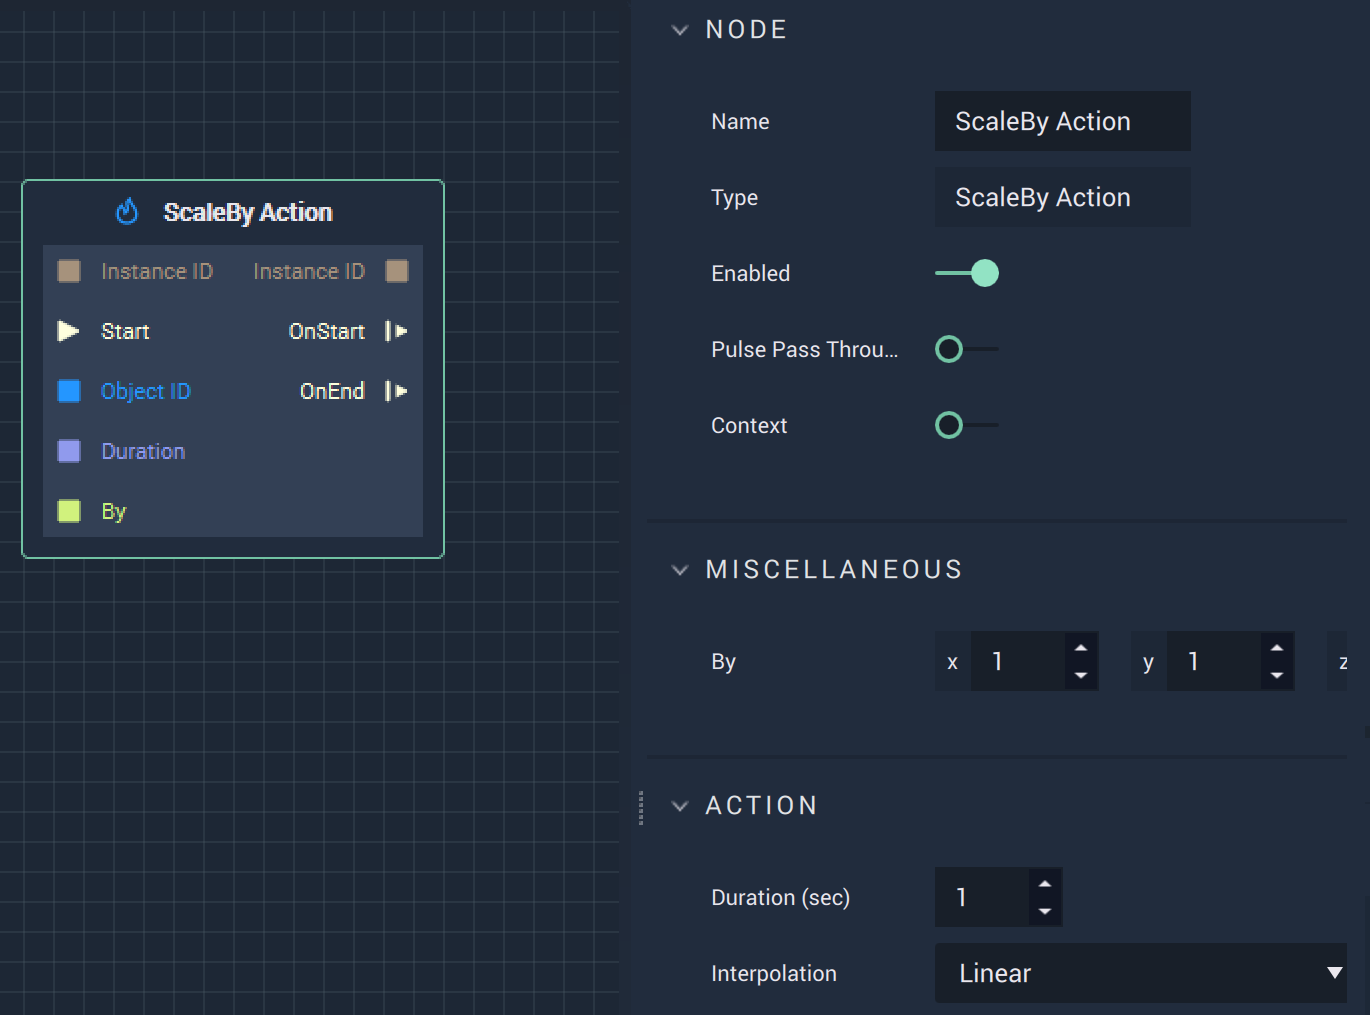
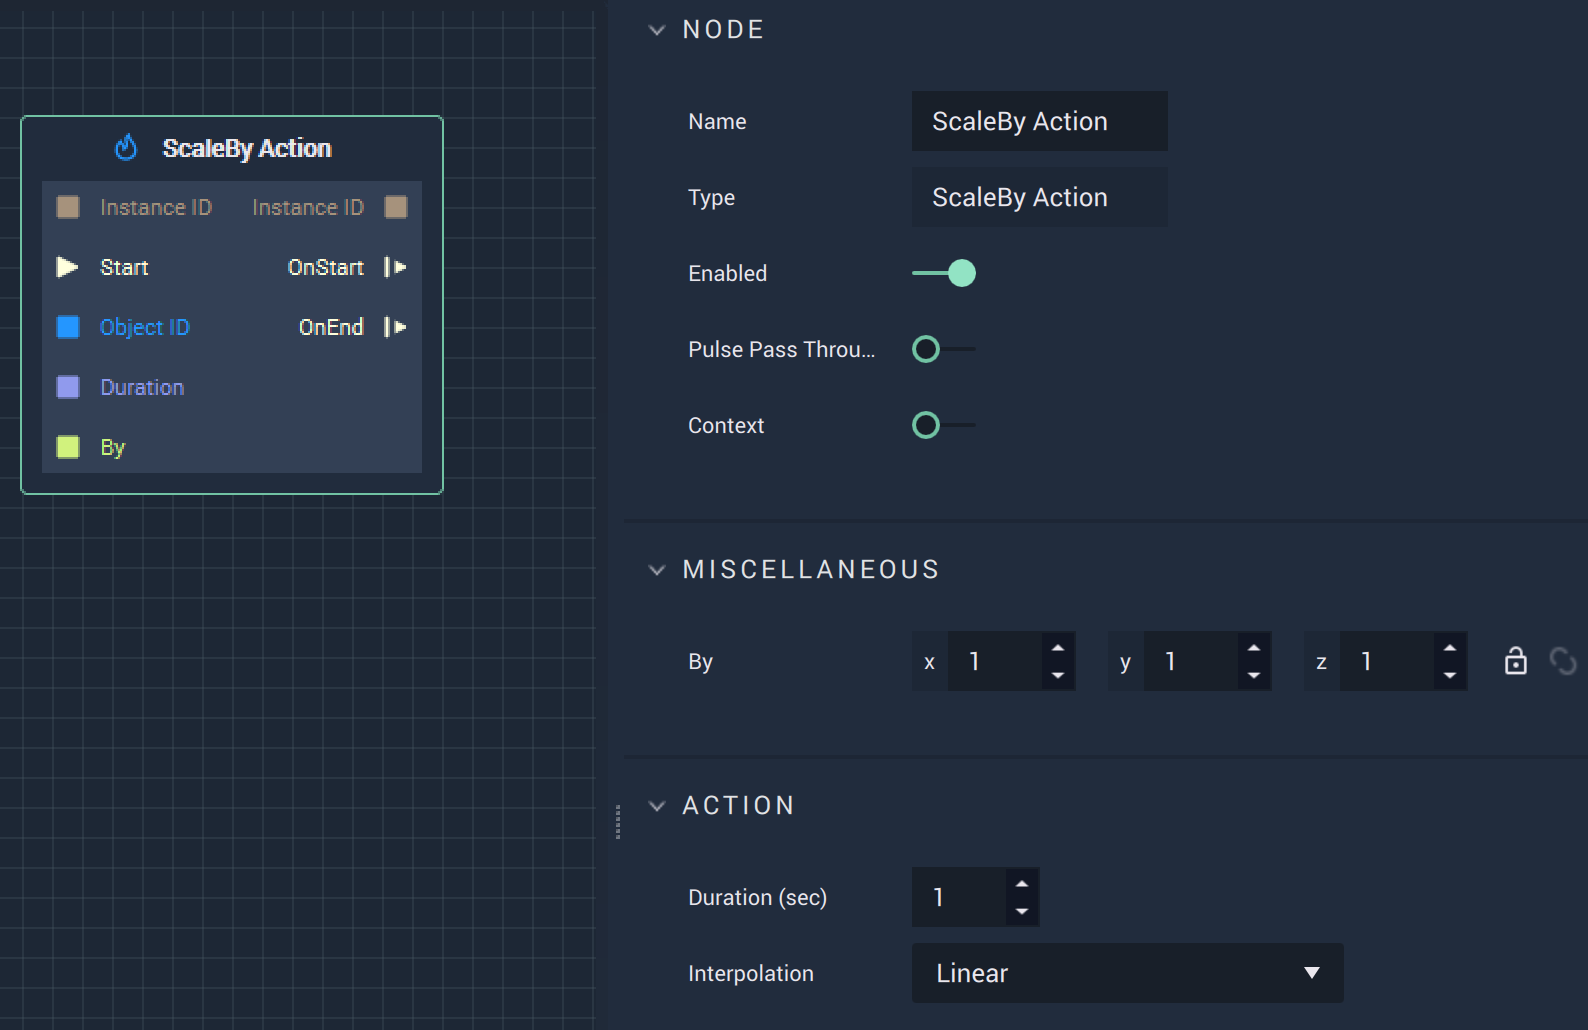
move and scale nodes + png updates

diff --git a/toolbox/actions/scalebyaction.md b/toolbox/actions/scalebyaction.md
@@ -2,33 +2,40 @@
 
 ![The ScaleBy Action Node.](../../.gitbook/assets/scalebyaction.png)
 
-**ScaleBy Action** moves an **Animation** by the numbers specified in `By` for the `Duration` (in seconds), in either **Attributes** or **Inputs**.
+The **ScaleBy Action Node** scales an **Animation** by the numbers specified in `By` for the `Duration` (in seconds), in either **Attributes** or **Inputs**.
 
 # Attributes
 
 |Attribute|Type|Description|
 |---|---|---|
-|`Offset`|**Vector3**|???.|
+|`By`|**Vector3**| The amount to be scaled by.|
 |`Duration`|**Float**|The total time of the **Action**.|
+|`Interpolation`|**Dropdown**|The `Interpolation` type. Can be Linear, Sine Ease In, Sine Ease Out, or Sine Ease In Out.|
 
 # Inputs
 
 |Input|Type|Description|
 |---|---|---|
-|*Pulse Input* (►)|**Pulse**|A standard **Input Pulse**, to trigger the execution of the **Node**.|
-|`Instance ID`| **InstanceID** | The assigned **Instance** of an **Animation**??.|
+|`Instance ID`| **InstanceID** | The assigned **Instance** of an **Object**.|
 |(►) `Start`|**Pulse**|A standard **Input Pulse**, to trigger the execution of the **Node**.|
 |`Object ID`|**ObjectID**|The ID of the target **Object**.|
 |`Duration`|**Float**|The total time (in seconds).|
-|`By`|**Vector3**|The amount to scale the **Animation** by within 3D space.|
+|`By`|**Vector3**| The amount to be scaled by.|
 
 # Outputs
 
 |Output|Type|Description|
 |---|---|---|
-|*Pulse Output* (►)|**Pulse**|A standard **Output Pulse**, to move onto the next **Node** along the **Logic Branch**, once this **Node** has finished its execution.|
+|`Instance ID`|**InstanceID**|The assigned **Instance** of an **Object**.|
+|`OnStart` (►)|**Pulse**|Flows to additional actions following **ScaleBy Action** if the **Action** is executed.|
+|`OnEnd` (►)|**Pulse**|Flows to additional actions following **ScaleBy Action** if the **Action** stops.|
+
 
 # See Also
 
+* [**ScaleTo Action**](scaletoaction.md)
+
 # External Links
+
+* [Scaling (geometry)](https://en.wikipedia.org/wiki/Scaling_%28geometry%29) on Wikipedia.
 

diff --git a/toolbox/actions/scaletoaction.md b/toolbox/actions/scaletoaction.md
@@ -1,27 +1,39 @@
 # Overview
 
-![The Scaleto Node.](../../.gitbook/assets/scaletoaction.png)
+![The ScaleTo Node.](../../.gitbook/assets/scaletoaction.png)
 
-**Scaleto** .
+The **ScaleTo Node** scales an **Animation** to the *xyz* coordinates specified in `To` for the `Duration` (in seconds), in either **Attributes** or **Inputs**.
+.
 
 # Attributes
 
 |Attribute|Type|Description|
 |---|---|---|
+|`To`|**Vector3**| The *xyz* coordinates to scale to.|
+|`Duration`|**Float**|The total time of the **Action**.|
+|`Interpolation`|**Dropdown**|The `Interpolation` type. Can be Linear, Sine Ease In, Sine Ease Out, or Sine Ease In Out.|
 
 # Inputs
 
 |Input|Type|Description|
 |---|---|---|
-|*Pulse Input* (►)|**Pulse**|A standard **Input Pulse**, to trigger the execution of the **Node**.|
+|`Instance ID`| **InstanceID** | The assigned **Instance** of an **Object**.|
+|(►) `Start`|**Pulse**|A standard **Input Pulse**, to trigger the execution of the **Node**.|
+|`Object ID`|**ObjectID**|The ID of the target **Object**.|
+|`Duration`|**Float**|The total time (in seconds).|
+|`To`|**Vector3**| The *xyz* coordinates to scale to.|
 
 # Outputs
 
 |Output|Type|Description|
 |---|---|---|
-|*Pulse Output* (►)|**Pulse**|A standard **Output Pulse**, to move onto the next **Node** along the **Logic Branch**, once this **Node** has finished its execution.|
+|`Instance ID`|**InstanceID**|The assigned **Instance** of an **Object**.|
+|`OnStart` (►)|**Pulse**|Flows to additional actions following **ScaleTo Action** if the **Action** is executed.|
+|`OnEnd` (►)|**Pulse**|Flows to additional actions following **ScaleTo Action** if the **Action** stops.|
 
 # See Also
 
+* [**ScaleBy**](scalebyaction.md)
 # External Links
 
+* [Scaling (geometry)](https://en.wikipedia.org/wiki/Scaling_%28geometry%29) on Wikipedia.

diff --git a/toolbox/actions/movetoaction.md b/toolbox/actions/movetoaction.md
@@ -8,7 +8,7 @@ The **Move To Action Node** moves an **Animation** to the coordinates specified 
 
 |Attribute|Type|Description|
 |---|---|---|
-|`Offset`|**Vector3**|???.|
+|`To`|**Vector3**|The desired *xyz* coordinates.|
 |`Duration`|**Float**|The total time of the **Action**.|
 |`Interpolation`|**Dropdown**|The `Interpolation` type. Can be Linear, Sine Ease In, Sine Ease Out, or Sine Ease In Out.|
 
@@ -16,7 +16,7 @@ The **Move To Action Node** moves an **Animation** to the coordinates specified 
 
 |Input|Type|Description|
 |---|---|---|
-|`Instance ID`| **InstanceID** | The assigned **Instance** of an **Animation**??.|
+|`Instance ID`| **InstanceID** | The assigned **Instance** of an **Object**.|
 |(►) `Start`|**Pulse**|A standard **Input Pulse**, to trigger the execution of the **Node**.|
 |`Object ID`|**ObjectID**|The ID of the target **Object**.|
 |`Duration`|**Float**|The total time (in seconds).|
@@ -26,7 +26,7 @@ The **Move To Action Node** moves an **Animation** to the coordinates specified 
 
 |Output|Type|Description|
 |---|---|---|
-|`Instance ID`|**InstanceID**|The assigned **Instance** of an **Animation**??.|
+|`Instance ID`|**InstanceID**|The assigned **Instance** of an **Object**.|
 |`OnStart` (►)|**Pulse**|Flows to additional actions following **MoveTo Action** if the **Action** is executed.|
 |`OnEnd` (►)|**Pulse**|Flows to additional actions following **MoveTo Action** if the **Action** stops.|
 

diff --git a/toolbox/actions/movebyaction.md b/toolbox/actions/movebyaction.md
@@ -16,7 +16,7 @@ The **MoveBy Action Node** moves an **Animation** by the numbers specified in th
 
 |Input|Type|Description|
 |---|---|---|
-|`Instance ID`| **InstanceID** | The assigned **Instance** of an **Animation**??.|
+|`Instance ID`| **InstanceID** | The assigned **Instance** of an **Object**.|
 |(►) `Start`|**Pulse**|A standard **Input Pulse**, to trigger the execution of the **Node**.|
 |`Object ID`|**ObjectID**|The ID of the target **Object**.|
 |`Duration`|**Float**|The total time (in seconds).|
@@ -26,7 +26,7 @@ The **MoveBy Action Node** moves an **Animation** by the numbers specified in th
 
 |Output|Type|Description|
 |---|---|---|
-|`Instance ID`|**InstanceID**|The assigned **Instance** of an **Animation**??.|
+|`Instance ID`|**InstanceID**|The assigned **Instance** of an **Object**.|
 |`OnStart` (►)|**Pulse**|Flows to additional actions following **MoveBy Action** if the **Action** is executed.|
 |`OnEnd` (►)|**Pulse**|Flows to additional actions following **MoveBy Action** if the **Action** stops.|
 
